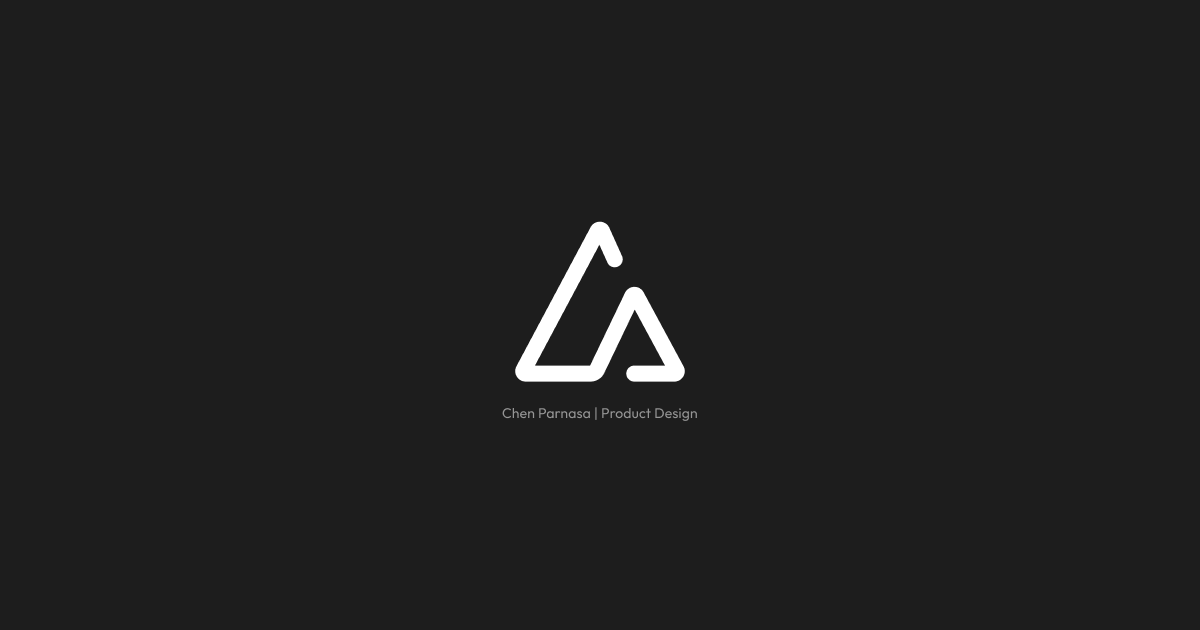
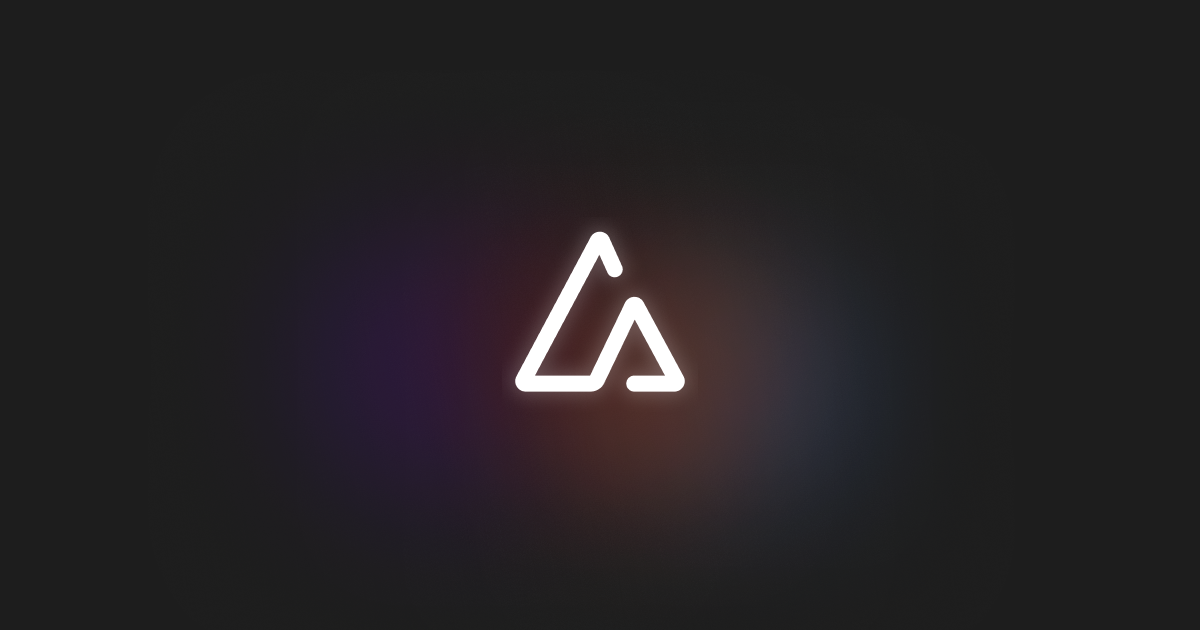
More fixes
- New OG image
- Fixed Auth image in explorations
- New ratio for images and videos on mobile

Changed region(s): [[0.4008, 0.3317, 0.7092, 0.8143], [0.3083, 0.5127, 0.37, 0.6635]]

diff --git a/css/style.css b/css/style.css
@@ -1565,6 +1565,17 @@ nav .container {
     .nav-links {
       height: 100dvh;
       overflow: hidden;
+      -webkit-overflow-scrolling: auto;
+    }
+
+    .all-links a {
+      transition: none;
+      letter-spacing: -2px;
+    }
+  
+    .all-links a.active,
+    .all-links a:hover {
+      letter-spacing: -2px;
     }
   
     .nav-footer {
@@ -1572,6 +1583,18 @@ nav .container {
       gap: 16px;
       text-align: center;
       bottom: 32px;
+    }
+
+    .card-image {
+      aspect-ratio: 3 / 2;
+      overflow: hidden;
+    }
+  
+    .card-image img {
+      width: 100%;
+      height: 100%;
+      object-fit: cover;
+      object-position: top center;
     }
 
     .coming-soon-inner h3 {
@@ -1679,6 +1702,30 @@ nav .container {
   
     .project-media.full-width.dark {
       background: transparent;
+    }
+
+    .project-media.full-width .media-wrapper {
+      aspect-ratio: 3 / 2;
+      overflow: hidden;
+    }
+  
+    .project-media.full-width .media-wrapper img {
+      width: 100%;
+      height: 100%;
+      object-fit: cover;
+      object-position: top center; /* shows the top of the image */
+    }
+
+    .project-media.full-width .media-wrapper .video-container {
+      aspect-ratio: 3 / 2;
+      overflow: hidden;
+    }
+  
+    .project-media.full-width .media-wrapper .video-container video {
+      width: 100%;
+      height: 100%;
+      object-fit: cover;
+      object-position: top center;
     }
 
     .next-title {

diff --git a/explorations.html b/explorations.html
@@ -69,7 +69,7 @@
                             </div>
                           
                             <div class="expo-card standard auth-card">
-                                <img src="assets/Explorations/auth-editor.webp"auth-img">
+                                <img src="assets/Explorations/auth-editor.webp" class="auth-img">
                                 <div class="card-overlay">
                                     <h3 class="overlay-title">Auth passages</h3>
                                     <p class="overlay-desc">An auth editor for Appwrite in Figma, with selectable methods, providers, and customizable sign-in/up UI.</p>
